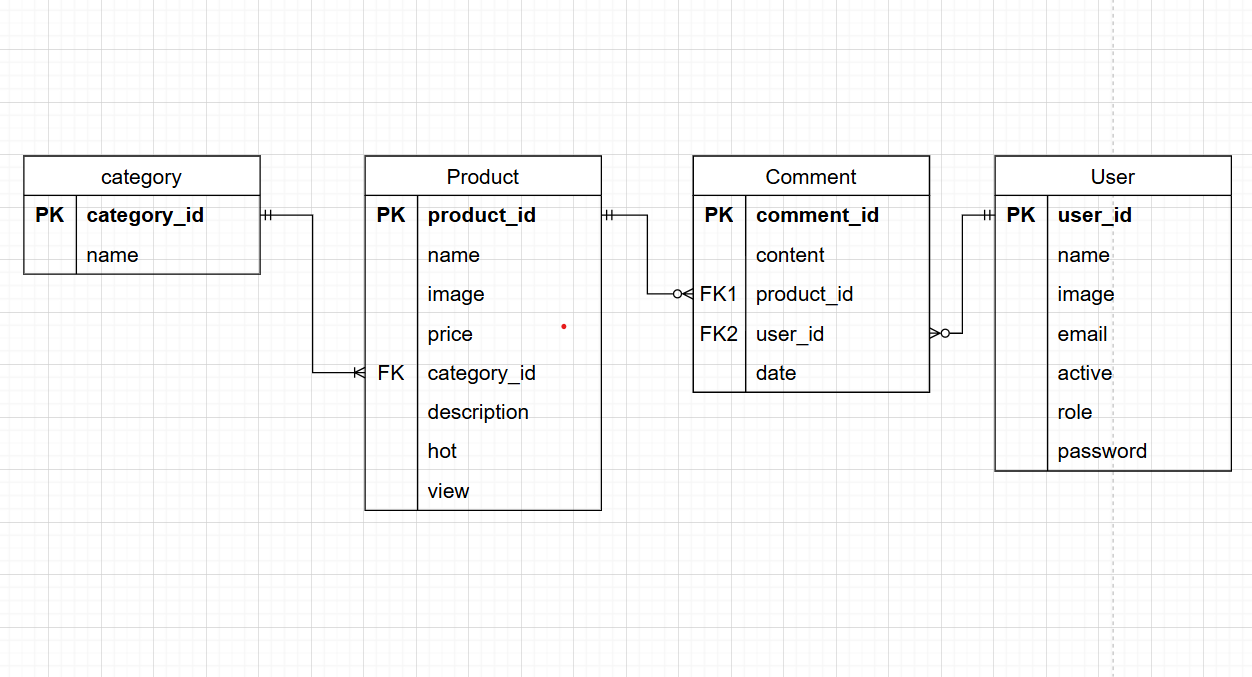
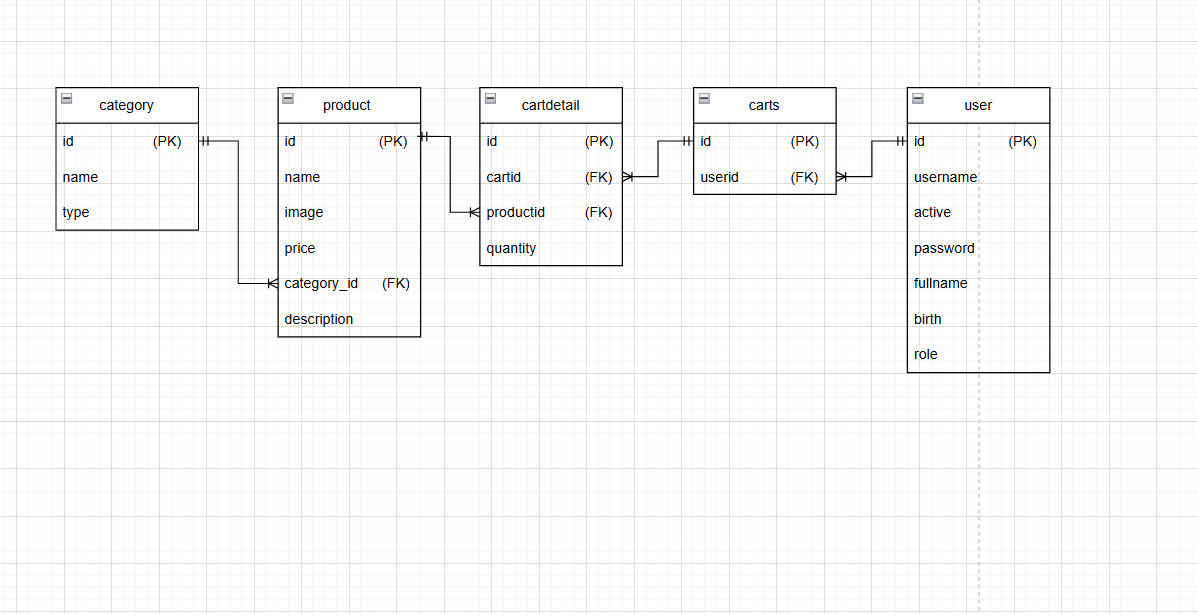
giỏ hàng

diff --git a/mvc-oop-basic-duanmau/models/CartModel.php b/mvc-oop-basic-duanmau/models/CartModel.php
@@ -1,0 +1,61 @@
+<?php 
+// Có class chứa các function thực thi tương tác với cơ sở dữ liệu 
+class CartModel 
+{
+    public $conn;
+    public function __construct()
+    {
+        $this->conn = connectDB();
+    }
+    
+    public function findCartByUser($userid){
+        $sql = "select * from carts where userid = :userid";
+        $stmt = $this->conn->prepare($sql);
+        $stmt->execute(array('userid'=>$userid));
+        $result = $stmt->fetch();
+        if(empty($result)){
+            return 0;
+        }else{
+            return $result['id'];
+        }
+    }
+
+    public function addTocart($userid,$productid,$quantity=1){
+        // Kiem tra user co gio hang chua
+        $cartid = $this->findCartByUser($userid);
+        if($cartid==0){
+            $sql = "insert into carts(userid) value (:userid)";
+            $stmt = $this->conn->prepare($sql);
+            $stmt->execute(array('userid'=>$userid));
+            $cartid = $this->conn->lastInsertId();
+        }
+        if($cartid>0){
+            $sql = "select * from cartdetail where cartid=:cartid and productid = :productid";
+            $stmt = $this->conn->prepare($sql);
+            $stmt->execute(array('cartid'=>$cartid,'productid'=>$productid));
+            $result = $stmt->fetch();
+            if(empty($result)){
+                $sqlinsert = "insert into cartdetail(cartid,productid,quantity) values 
+                (:cartid,:productid,:quantity)";
+                $stmtinsert = $this->conn->prepare($sqlinsert);
+                $stmtinsert->execute(array('cartid'=>$cartid,'productid'=>$productid,'quantity'=>$quantity));
+            }else{
+                // cap nhap so luong cho san pham
+                $idcartdetail = $result['id'];
+                $sqlud = "update cartdetail set quantity = :quantity where id=:id";
+                $stmtud = $this->conn->prepare($sqlud);
+                $stmtud->execute(array('id'=>$idcartdetail,'quantity'=>$result['quantity']+$quantity));
+            }   
+
+        }
+    }
+    public function getAllProductIncart($userid){
+        $sql = "select c.cartid,p.name,p.image,p.price,c.quantity from cartdetail c 
+        left join product p on p.id=c.productid
+        left join carts on carts.id = c.cartid
+        where carts.userid = :userid";
+        $stmt = $this->conn->prepare($sql);
+        $stmt->execute(array('userid'=>$userid));
+        return $stmt->fetchAll();
+    }
+}

diff --git a/mvc-oop-basic-duanmau/views/client/productDetail.php b/mvc-oop-basic-duanmau/views/client/productDetail.php
@@ -11,13 +11,57 @@
         <div class="info">
             <h1><?=$name?></h1>
             <p>gia: <?=$price?></p>
-
+            <form onsubmit="onSubmitForm()">
+                <input type="number" name="quantity" value="1">
+                <input type="hidden" name="productid" value="<?= $id ?>">
+                <button>Them gio hang</button>
+            </form>
         </div>
     </div>
     <div class="description">
         <?=$description ?>
     </div>
 </section>
+<script>
+    const onSubmitForm = async()=>{
+        event.preventDefault()
+        const quantity = document.querySelector('input[name="quantity"]').value
+        const productid = document.querySelector('input[name="productid"]').value
+        // console.log(quantity);
+        const productdata = new FormData()
+        productdata.append('quantity',quantity)
+        productdata.append('productid',productid)
+        const cart = document.getElementById('cart')
+        const cartul = document.querySelector('#cart ul')
+        try{
+            const response = await fetch('?act=addtocart',{
+                method:'POST',
+                body:productdata
+            })
+            const data = await response.json()
+            if(data.status){
+                cart.classList.add('active')
+                console.log(data);
+                let li = '';
+                for(item of data.data){
+                    console.log(item);
+                    li += `<li>
+                        <img src="${item.image}"/>
+                        <div>
+                            <h5>${item.name}</h5>
+                            <p>Gia: ${item.price}</p>
+                            <span>SL: ${item.quantity}</span>
+                        </div>
+                    </li>`
+                }
+                cart.innerHTML=li
+            }
+            alert(data.message)
+        }catch(error){
+
+        }
+    }
+</script>
  <?php
  require_once 'footer.php';
 ?>

diff --git a/mvc-oop-basic-duanmau/controllers/ProductController.php b/mvc-oop-basic-duanmau/controllers/ProductController.php
@@ -4,11 +4,12 @@ class ProductController
 {
     public $modelCategory;
     public $modelProduct;
-
+    private $cartModel;
     public function __construct()
     {
         $this->modelCategory = new CategoryModel();
         $this->modelProduct = new ProductModel();
+        $this->cartModel = new CartModel();
     }
 
     public function addProduct()
@@ -68,5 +69,29 @@ public function ProductDetail(){
         header('Location: /');
     }
     
+}
+public function AddToCart(){
+    $userid = $_SESSION['user']['id']??0;
+     header('Content-type:appication/json');
+    if($userid==0){
+        $result = array(
+            "status"=>false,
+            "message"=>"ban can phai dang nhap"
+        );
+        echo json_encode($result);
+        return;
+    }
+    if($_SERVER['REQUEST_METHOD'] == 'POST'){
+        $productid = $_POST['productid'];
+        $quantity = $_POST['quantity'];
+        $this->cartModel->addTocart($userid,$productid,$quantity);
+        $data = $this->cartModel->getAllProductIncart($userid);
+        $result = array(
+            "status"=>true,
+            "message"=>"them gio hang thanh cong",
+            "data"=>$data
+        );
+        echo json_encode($result);
+    }
 }
 }

diff --git a/mvc-oop-basic-duanmau/views/client/header.php b/mvc-oop-basic-duanmau/views/client/header.php
@@ -146,6 +146,28 @@ img{
 .productdetail{
     margin: 30px 0;
 }
+#cart{
+    transition: all 0.5s ease;
+    transform: translateX(100%);
+    width: 350px;
+    position: fixed;
+    top: 0;
+    right: 0;
+    background-color: #fff;
+    z-index: 999;
+    height: 100%;
+    border: 1px solid #ccc;
+}
+#cart li{
+    display: flex;
+    margin-bottom: 10px;
+}
+#cart li img{
+    max-width: 50px;
+}
+#cart.active{
+    transform: translateX(0);
+}
 
      </style>
 </head>
@@ -153,12 +175,12 @@ img{
     <header>
         <div class="container flex">
         <div id="logo">
-            NGoxuantung
+            Yody
         </div>
         <nav>
             <ul class="flex">
                 <li>
-                    <a href="#">Trang chủ</a>
+                    <a href="index.php">Trang chủ</a>
                 </li>
                 <li>
                     <a href="#">Sản phẩm</a>

diff --git a/mvc-oop-basic-duanmau/views/client/cart.php b/mvc-oop-basic-duanmau/views/client/cart.php
@@ -1,0 +1,29 @@
+<?php
+    $cartmodel = new CartModel();
+    $userid = $_SESSION['user']['id']??0;
+    $result = $cartmodel->getAllProductIncart($userid);
+?>
+<div id="cart">
+    <button onclick="closeCart()">close</button>
+    <ul>
+        <?php 
+            foreach($result as $key => $value){
+                extract($value);
+                echo '<li>
+                        <img src="'.$image.'"/>
+                        <div>
+                            <h5>'.$name.'</h5>
+                            <p>Gia: '.$price.'</p>
+                            <span>SL: '.$quantity.'</span>
+                        </div>
+                    </li>';
+            }
+        ?>
+    </ul>
+</div>
+<script>
+    const closeCart = ()=>{
+        const cart = document.getElementById("cart")
+        cart.classList.remove("active")
+    }
+</script>

diff --git a/mvc-oop-basic-duanmau/controllers/UserController.php b/mvc-oop-basic-duanmau/controllers/UserController.php
@@ -35,7 +35,7 @@ class UserController
                 echo "Sai ten dang nhap hoac mat khau";
             }else{
                 print_r($result);
-                $user = array("username" => $result['username'],"role"=>$result['role'],"fullname"=>$result['fullname']);
+                $user = array("id"=>$result['id'],"username" => $result['username'],"role"=>$result['role'],"fullname"=>$result['fullname']);
                 $_SESSION['user'] = $user;
                 $_SESSION['user'] = $user;
 

diff --git a/mvc-oop-basic-duanmau/route/client.php b/mvc-oop-basic-duanmau/route/client.php
@@ -11,6 +11,7 @@ match ($act) {
     'login'=>(new UserController())->Login(),
     'logout'=> (new UserController())->Logout(),
     'detail'=> (new ProductController())->ProductDetail(),
+    'addtocart'=> (new ProductController())->AddToCart(),
     default=>(new HomeController())->index(),
 
 };

diff --git a/mvc-oop-basic-duanmau/index.php b/mvc-oop-basic-duanmau/index.php
@@ -16,6 +16,7 @@ require_once './controllers/DashboarbController.php';
 require_once './models/ProductModel.php';
 require_once './models/CategoryModel.php';
 require_once './models/UserModel.php';
+require_once './models/CartModel.php';
 
 // Route
 $mode = $_GET['mode'] ?? '/';

diff --git a/mvc-oop-basic-duanmau/views/client/footer.php b/mvc-oop-basic-duanmau/views/client/footer.php
@@ -1,3 +1,4 @@
+<?php require_once "cart.php";  ?>
 <footer>
     <div class="container flex">
         <div class="col"></div>
